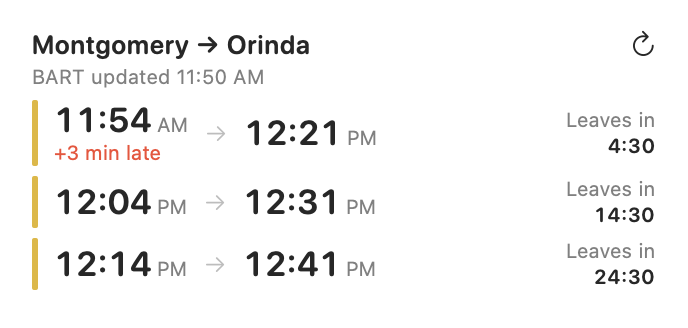
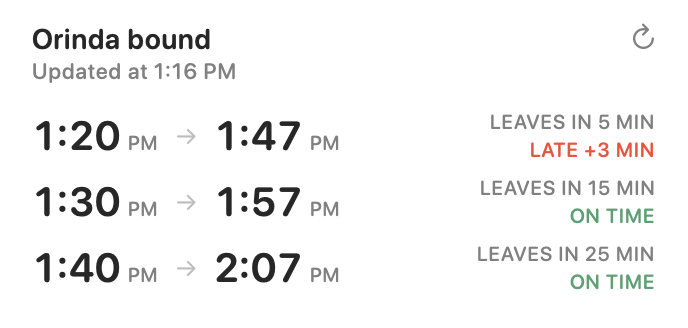
Match desktop widgets to the menu bar design
Share the clock, route line and status line between the menu bar cards and
the widget. Widgets now use the "<Station> bound" header, minute countdowns
and the same status colours; the large widget's cards fill the widget.

diff --git a/WidgetExtension/BartWidget.swift b/WidgetExtension/BartWidget.swift
@@ -78,6 +78,11 @@ struct BartProvider: TimelineProvider {
             let now = Date()
             // Entries remove departed trains and mark expired predictions, even if a network reload is deferred.
             var dates = [now, now.addingTimeInterval(5 * 60), now.addingTimeInterval(15 * 60)]
+            // The minute countdown changes each time a departure is a whole number of minutes away.
+            for train in snapshot.trains {
+                dates += (1...30).map { train.departure.addingTimeInterval(Double(-$0 * 60)) }
+                    .filter { $0 > now && $0 < now.addingTimeInterval(30 * 60) }
+            }
             dates += snapshot.trains.map { $0.departure.addingTimeInterval(1) }.filter { $0 > now && $0 < now.addingTimeInterval(15 * 60) }
             if let stamp = snapshot.feedTime, stamp.addingTimeInterval(91) > now { dates.append(stamp.addingTimeInterval(91)) }
             let entries = Array(Set(dates)).sorted().map { BartEntry(date: $0, snapshot: snapshot) }
@@ -114,23 +119,24 @@ struct BartWidgetView: View {
     private var journey: BARTJourney { entry.snapshot.journey }
 
     var body: some View {
-        VStack(alignment: .leading, spacing: 5) {
+        VStack(alignment: .leading, spacing: family == .systemLarge ? 8 : 6) {
             header
             if entry.trains.isEmpty {
                 Spacer(minLength: 0)
                 VStack(alignment: .leading, spacing: 5) {
                     Label("No upcoming direct trains", systemImage: "tram")
-                        .font(.system(size: 13, weight: .medium))
+                        .font(.system(size: 13, weight: .medium, design: .rounded))
                     Text(entry.snapshot.error ?? "Open Bart for the latest service information.")
                         .font(.system(size: 12)).foregroundStyle(.secondary)
                 }
                 Spacer(minLength: 0)
             } else if family == .systemLarge {
-                ForEach(entry.trains) { train in largeCard(train) }
+                ForEach(entry.trains) { train in card(train) }
             } else if family == .systemSmall {
                 smallJourney(entry.trains[0])
             } else {
-                ForEach(entry.trains) { train in compactRow(train) }
+                Spacer(minLength: 0)
+                ForEach(entry.trains) { train in row(train) }
                 Spacer(minLength: 0)
             }
         }
@@ -140,128 +146,74 @@ struct BartWidgetView: View {
 
     private var header: some View {
         HStack(alignment: .top, spacing: 6) {
-            VStack(alignment: .leading, spacing: 2) {
-                Text(family == .systemSmall ? journey.destination.name : "\(journey.origin.name) → \(journey.destination.name)")
-                    .font(.system(size: 13, weight: .semibold, design: .rounded)).lineLimit(1)
-                Text(updateLabel).font(.system(size: 10)).foregroundStyle(.secondary).lineLimit(1)
+            VStack(alignment: .leading, spacing: 1) {
+                Text("\(journey.destination.name) bound")
+                    .font(.system(size: 14, weight: .semibold, design: .rounded)).lineLimit(1)
+                Text(updateLabel)
+                    .font(.system(size: 11, weight: .medium, design: .rounded))
+                    .foregroundStyle(.secondary).lineLimit(1)
             }
             Spacer(minLength: 0)
-            Button(intent: RefreshBARTWidget()) { Image(systemName: "arrow.clockwise").font(.system(size: 12)) }
-                .buttonStyle(.plain).accessibilityLabel("Refresh BART predictions")
+            Button(intent: RefreshBARTWidget()) {
+                Image(systemName: "arrow.clockwise").font(.system(size: 12, weight: .medium)).foregroundStyle(.secondary)
+            }
+            .buttonStyle(.plain).accessibilityLabel("Refresh BART predictions")
         }
     }
 
     private var updateLabel: String {
         guard let time = entry.snapshot.feedTime else { return entry.snapshot.error == nil ? "Scheduled departures" : "Update unavailable" }
-        let prefix = entry.isFresh ? (family == .systemSmall ? "Updated" : "BART updated") : (family == .systemSmall ? "Last data" : "Last live data")
+        let prefix = entry.isFresh ? (family == .systemSmall ? "Updated" : "Updated at") : (family == .systemSmall ? "Last data" : "Last live data at")
         return "\(prefix) \(Pacific.format(time, "h:mm a"))"
     }
 
-    private func tint(_ train: Train) -> Color {
-        let displayHex = train.lineColorHex.uppercased() == "#FFFF33" ? "#E3B62A" : train.lineColorHex
-        let hex = displayHex.trimmingCharacters(in: CharacterSet(charactersIn: "#"))
-        guard let number = UInt32(hex, radix: 16) else { return .secondary }
-        return Color(red: Double((number >> 16) & 255) / 255, green: Double((number >> 8) & 255) / 255, blue: Double(number & 255) / 255)
-    }
-
-    private func time(_ date: Date, size: CGFloat) -> some View {
-        HStack(alignment: .firstTextBaseline, spacing: 2) {
-            Text(Pacific.format(date)).font(.system(size: size, weight: .semibold, design: .rounded)).monospacedDigit()
-            Text(Pacific.format(date, "a")).font(.system(size: 10)).foregroundStyle(.secondary)
-        }.fixedSize(horizontal: true, vertical: false)
-    }
-
-    private func delayLabel(_ train: Train) -> some View {
-        HStack(spacing: 5) {
-            if train.isLive, let delay = train.boardingDelayLabel, train.boardingDelay != 0 {
-                Text(delay).foregroundStyle((train.boardingDelay ?? 0) > 0 ? lateColor : .secondary)
-            }
-        }.font(.system(size: 10)).lineLimit(1)
-    }
-
-    private var lateColor: Color {
-        Color(red: 246.0 / 255, green: 73.0 / 255, blue: 50.0 / 255)
-    }
-
-    @ViewBuilder private func waiting(_ train: Train) -> some View {
-        if entry.isFresh && train.departure > entry.date {
-            VStack(alignment: .trailing, spacing: 0) {
-                Text("Leaves in").foregroundStyle(.secondary)
-                Text(timerInterval: entry.date...train.departure, countsDown: true, showsHours: false)
-                    .monospacedDigit().fontDesign(.rounded).fontWeight(.semibold)
-            }
-        } else {
-            Text(train.isLive && !entry.isFresh ? "Last estimate" : train.departureCountdown(at: entry.date))
-                .fontDesign(.rounded)
-        }
-    }
-
-    private func compactRow(_ train: Train) -> some View {
+    private func row(_ train: Train) -> some View {
         HStack(alignment: .center, spacing: 8) {
-            RoundedRectangle(cornerRadius: 1).fill(tint(train)).frame(width: 3)
-            VStack(alignment: .leading, spacing: 0) {
-                time(train.boardingTime, size: 17)
-                delayLabel(train)
-            }
-            Image(systemName: "arrow.right").font(.system(size: 10)).foregroundStyle(.tertiary)
-            time(train.destinationArrival, size: 17)
-            Spacer(minLength: 2)
-            waiting(train).font(.system(size: 10)).frame(width: 57, alignment: .trailing)
-        }.frame(maxHeight: .infinity)
-        .accessibilityElement(children: .combine)
-    }
-
-    private func largeCard(_ train: Train) -> some View {
-        VStack(spacing: 2) {
-            HStack(spacing: 4) {
-                Text(journey.origin.name).lineLimit(1).minimumScaleFactor(0.8)
-                Capsule().fill(Color.primary.opacity(0.12))
-                    .frame(minWidth: 8, maxWidth: .infinity).frame(height: 1)
-                    .accessibilityHidden(true)
-                Text("\(train.rideMinutes) MIN")
-                    .font(.system(size: 8, weight: .medium, design: .rounded))
-                    .foregroundStyle(.secondary).fixedSize()
-                Capsule().fill(Color.primary.opacity(0.12))
-                    .frame(minWidth: 8, maxWidth: .infinity).frame(height: 1)
-                    .accessibilityHidden(true)
-                Text(journey.destination.name).lineLimit(1).minimumScaleFactor(0.8)
+            ClockText(date: train.boardingTime, size: 20, suffixSize: 10)
+            Image(systemName: "arrow.right").font(.system(size: 10, weight: .medium)).foregroundStyle(.tertiary)
+            ClockText(date: train.destinationArrival, size: 20, suffixSize: 10)
+            Spacer(minLength: 4)
+            VStack(alignment: .trailing, spacing: 1) {
+                Text(train.leavesLabel(at: entry.date))
+                Text(train.statusLabel).foregroundStyle(train.statusColor)
             }
             .font(.system(size: 10, weight: .medium, design: .rounded))
-            HStack(alignment: .top) {
-                VStack(alignment: .leading, spacing: 0) { time(train.boardingTime, size: 18); delayLabel(train) }
-                Spacer()
-                time(train.destinationArrival, size: 18)
-            }
-            HStack(spacing: 4) {
-                Text("Leaves in").foregroundStyle(.secondary)
-                Text(timerInterval: entry.date...train.departure, countsDown: true, showsHours: false)
-                    .monospacedDigit().fontDesign(.rounded).fontWeight(.bold)
-                Spacer(minLength: 0)
-            }.font(.system(size: 11))
+            .foregroundStyle(.secondary).lineLimit(1)
         }
-        .padding(.horizontal, 8)
-        .padding(.vertical, 5)
-        .background(.quaternary.opacity(0.4), in: RoundedRectangle(cornerRadius: 10))
+        .frame(maxHeight: .infinity)
         .accessibilityElement(children: .combine)
+    }
+
+    private func card(_ train: Train) -> some View {
+        VStack(spacing: 0) {
+            RouteLine(journey: journey, minutes: train.rideMinutes, nameSize: 12, minutesSize: 10)
+            Spacer(minLength: 2)
+            HStack(alignment: .top) {
+                ClockText(date: train.boardingTime, size: 22, suffixSize: 11)
+                Spacer()
+                ClockText(date: train.destinationArrival, size: 22, suffixSize: 11)
+            }
+            Spacer(minLength: 2)
+            TrainStatusLine(train: train, now: entry.date, size: 11)
+        }
+        .padding(.horizontal, 10).padding(.vertical, 8)
+        .frame(maxHeight: .infinity)
+        .background(.quaternary.opacity(0.5), in: RoundedRectangle(cornerRadius: 12))
     }
 
     private func smallJourney(_ train: Train) -> some View {
-        VStack(alignment: .leading, spacing: 4) {
+        VStack(alignment: .leading, spacing: 2) {
             Spacer(minLength: 0)
-            Text(journey.origin.name).font(.system(size: 11, design: .rounded)).foregroundStyle(.secondary).lineLimit(1)
-            time(train.boardingTime, size: 26)
-            delayLabel(train)
-            HStack(spacing: 5) {
-                Circle().fill(tint(train)).frame(width: 5, height: 5)
-                Text("Arrives \(Pacific.format(train.destinationArrival, "h:mm a"))").font(.system(size: 11))
+            ClockText(date: train.boardingTime, size: 30, suffixSize: 12)
+            Spacer(minLength: 0)
+            Group {
+                Text(train.leavesLabel(at: entry.date))
+                Text(train.statusLabel).foregroundStyle(train.statusColor)
             }
-            HStack(spacing: 4) {
-                Text("Leaves in").foregroundStyle(.secondary)
-                Text(timerInterval: entry.date...train.departure, countsDown: true, showsHours: false)
-                    .monospacedDigit().fontDesign(.rounded).fontWeight(.bold)
-            }.font(.system(size: 12))
-            Spacer(minLength: 0)
+            .font(.system(size: 11, weight: .medium, design: .rounded))
+            .foregroundStyle(.secondary).lineLimit(1)
         }
+        .accessibilityElement(children: .combine)
     }
 }
 

diff --git a/Sources/Bart/BoardView.swift b/Sources/Bart/BoardView.swift
@@ -231,64 +231,13 @@ struct JourneyCard: View {
 
     private var content: some View {
         VStack(spacing: 0) {
-                HStack(alignment: .center, spacing: 8) {
-                    Text(journey.origin.name)
-                        .font(.system(size: 14, weight: .medium, design: .rounded))
-                        .lineLimit(1).minimumScaleFactor(0.8).help(journey.origin.name)
-                    Capsule().fill(Color(nsColor: .separatorColor).opacity(0.65))
-                        .frame(minWidth: 12, maxWidth: .infinity).frame(height: 2)
-                        .accessibilityHidden(true)
-                    Text("\(train.rideMinutes) MIN")
-                        .font(.system(size: 12, weight: .medium, design: .rounded))
-                        .foregroundStyle(.secondary).fixedSize()
-                    Capsule().fill(Color(nsColor: .separatorColor).opacity(0.65))
-                        .frame(minWidth: 12, maxWidth: .infinity).frame(height: 2)
-                        .accessibilityHidden(true)
-                    Text(journey.destination.name)
-                        .font(.system(size: 14, weight: .medium, design: .rounded))
-                        .lineLimit(1).minimumScaleFactor(0.8).help(journey.destination.name)
-                }
-                HStack(alignment: .top) {
-                    clock(train.boardingTime)
-                    Spacer()
-                    clock(train.destinationArrival)
-                }.padding(.top, 8)
-                HStack(alignment: .firstTextBaseline, spacing: 5) {
-                    Text(train.departure > now
-                         ? "LEAVES IN \(train.departureCountdownValue(at: now).uppercased())"
-                         : "LEAVING")
-                    Text("·").accessibilityHidden(true)
-                    Text(statusLabel)
-                        .foregroundStyle(statusColor)
-                    Spacer(minLength: 0)
-                }.font(.system(size: 12, weight: .medium, design: .rounded))
-                    .foregroundStyle(.secondary)
-                    .lineLimit(1).minimumScaleFactor(0.85)
-                    .padding(.top, 8)
-                    .accessibilityElement(children: .combine)
+            RouteLine(journey: journey, minutes: train.rideMinutes)
+            HStack(alignment: .top) {
+                ClockText(date: train.boardingTime)
+                Spacer()
+                ClockText(date: train.destinationArrival)
+            }.padding(.top, 8)
+            TrainStatusLine(train: train, now: now).padding(.top, 8)
         }
-    }
-
-    private func clock(_ date: Date) -> some View {
-        HStack(alignment: .firstTextBaseline, spacing: 3) {
-            Text(Pacific.format(date)).font(.system(size: 27, weight: .semibold, design: .rounded)).monospacedDigit()
-            Text(Pacific.format(date, "a")).font(.system(size: 12, weight: .medium, design: .rounded)).foregroundStyle(.secondary)
-        }.fixedSize()
-    }
-
-    private var statusLabel: String {
-        guard train.isLive else { return "SCHEDULED" }
-        guard let delay = train.boardingDelay else { return "LIVE PREDICTION" }
-        if delay == 0 { return "ON TIME" }
-        let minutes = abs(delay) < 60 ? "<1" : String(Int(ceil(Double(abs(delay)) / 60)))
-        if delay > 0 { return "LATE \(minutes == "<1" ? "" : "+")\(minutes) MIN" }
-        return "EARLY \(minutes) MIN"
-    }
-
-    private var statusColor: Color {
-        guard train.isLive, let delay = train.boardingDelay else { return .secondary }
-        if delay > 0 { return Color(red: 246.0 / 255, green: 73.0 / 255, blue: 50.0 / 255) }
-        if delay == 0 { return Color(red: 70.0 / 255, green: 161.0 / 255, blue: 113.0 / 255) }
-        return .secondary
     }
 }

diff --git a/Sources/Bart/TrainStyle.swift b/Sources/Bart/TrainStyle.swift
@@ -1,0 +1,86 @@
+import AppKit
+import SwiftUI
+
+// Shared by the menu bar cards and the desktop widget so both read the same.
+extension Train {
+    func leavesLabel(at now: Date) -> String {
+        departure > now ? "LEAVES IN \(departureCountdownValue(at: now).uppercased())" : "LEAVING"
+    }
+
+    var statusLabel: String {
+        guard isLive else { return "SCHEDULED" }
+        guard let delay = boardingDelay else { return "LIVE PREDICTION" }
+        if delay == 0 { return "ON TIME" }
+        let minutes = abs(delay) < 60 ? "<1" : String(Int(ceil(Double(abs(delay)) / 60)))
+        if delay > 0 { return "LATE \(minutes == "<1" ? "" : "+")\(minutes) MIN" }
+        return "EARLY \(minutes) MIN"
+    }
+
+    var statusColor: Color {
+        guard isLive, let delay = boardingDelay else { return .secondary }
+        if delay > 0 { return Color(red: 246.0 / 255, green: 73.0 / 255, blue: 50.0 / 255) }
+        if delay == 0 { return Color(red: 70.0 / 255, green: 161.0 / 255, blue: 113.0 / 255) }
+        return .secondary
+    }
+}
+
+struct ClockText: View {
+    let date: Date
+    var size: CGFloat = 27
+    var suffixSize: CGFloat = 12
+
+    var body: some View {
+        HStack(alignment: .firstTextBaseline, spacing: 3) {
+            Text(Pacific.format(date)).font(.system(size: size, weight: .semibold, design: .rounded)).monospacedDigit()
+            Text(Pacific.format(date, "a")).font(.system(size: suffixSize, weight: .medium, design: .rounded)).foregroundStyle(.secondary)
+        }.fixedSize()
+    }
+}
+
+struct RouteLine: View {
+    let journey: BARTJourney
+    let minutes: Int
+    var nameSize: CGFloat = 14
+    var minutesSize: CGFloat = 12
+
+    var body: some View {
+        HStack(alignment: .center, spacing: 8) {
+            Text(journey.origin.name)
+                .font(.system(size: nameSize, weight: .medium, design: .rounded))
+                .lineLimit(1).minimumScaleFactor(0.8).help(journey.origin.name)
+            rule
+            Text("\(minutes) MIN")
+                .font(.system(size: minutesSize, weight: .medium, design: .rounded))
+                .foregroundStyle(.secondary).fixedSize()
+            rule
+            Text(journey.destination.name)
+                .font(.system(size: nameSize, weight: .medium, design: .rounded))
+                .lineLimit(1).minimumScaleFactor(0.8).help(journey.destination.name)
+        }
+    }
+
+    private var rule: some View {
+        Capsule().fill(Color(nsColor: .separatorColor).opacity(0.65))
+            .frame(minWidth: 12, maxWidth: .infinity).frame(height: 2)
+            .accessibilityHidden(true)
+    }
+}
+
+struct TrainStatusLine: View {
+    let train: Train
+    let now: Date
+    var size: CGFloat = 12
+
+    var body: some View {
+        HStack(alignment: .firstTextBaseline, spacing: 5) {
+            Text(train.leavesLabel(at: now))
+            Text("·").accessibilityHidden(true)
+            Text(train.statusLabel).foregroundStyle(train.statusColor)
+            Spacer(minLength: 0)
+        }
+        .font(.system(size: size, weight: .medium, design: .rounded))
+        .foregroundStyle(.secondary)
+        .lineLimit(1).minimumScaleFactor(0.85)
+        .accessibilityElement(children: .combine)
+    }
+}

diff --git a/Project.swift b/Project.swift
@@ -32,6 +32,7 @@ let project = Project(
                 "Sources/Bart/Realtime.swift",
                 "Sources/Bart/BARTService.swift",
                 "Sources/Bart/SharedBoard.swift",
+                "Sources/Bart/TrainStyle.swift",
                 "WidgetExtension/BartWidget.swift",
             ],
             entitlements: .file(path: "Configuration/BartWidget.entitlements"),

diff --git a/README.md b/README.md
@@ -38,9 +38,12 @@ Bart only shows direct trains. If your trip needs a transfer, it tells you so an
 ## Desktop widget
 
 <p>
-  <img src="docs/images/widget-small.png" height="164" alt="Small widget showing the next train">
-  <img src="docs/images/widget-medium.png" height="164" alt="Medium widget showing three trains">
-  <img src="docs/images/widget-medium-dark.png" height="164" alt="Medium widget in dark mode">
+  <img src="docs/images/widget-small.png" height="164" alt="Small widget showing the next train, when it arrives, and its delay">
+  <img src="docs/images/widget-medium.png" height="164" alt="Medium widget showing the next three trains with countdowns and delays">
+</p>
+<p>
+  <img src="docs/images/widget-large.png" width="344" alt="Large widget showing three journey cards, matching the menu bar app">
+  <img src="docs/images/widget-large-dark.png" width="344" alt="Large widget in dark mode">
 </p>
 
 1. Control-click the desktop and choose **Edit Widgets**.
